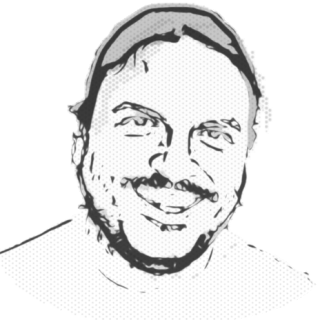
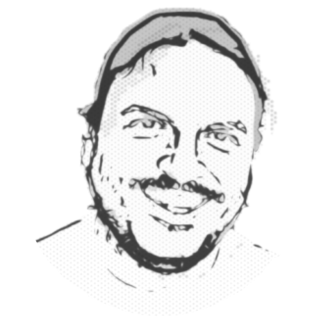
Add colorful portrait

diff --git a/css/style.css b/css/style.css
@@ -34,6 +34,12 @@ body{
 	min-height: 400px;
 	margin: 96px auto 32px;
 	background: url(../img/guillermo.png) no-repeat 100% 0%;
+	transition: background 1s ease-in-out;
+}
+
+#main:hover{
+
+	background-image: url(../img/guillermo-color.png);
 }
 
 h1{
